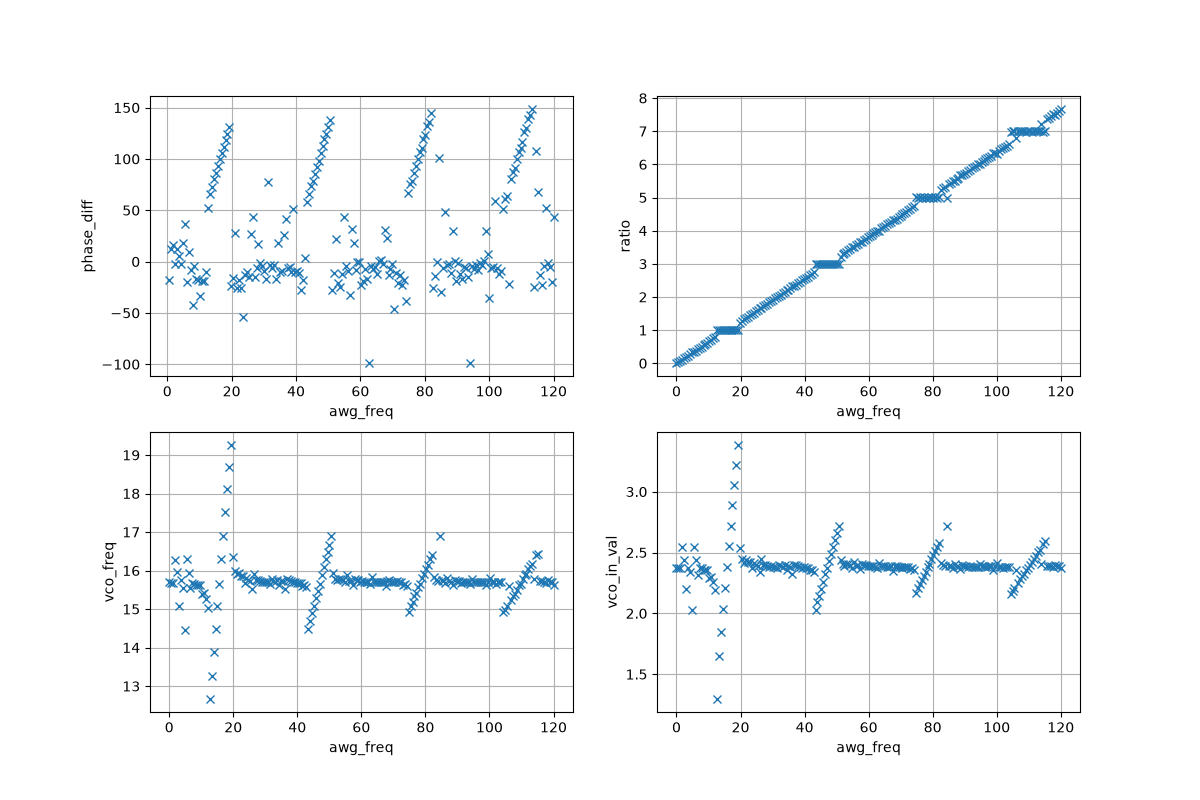
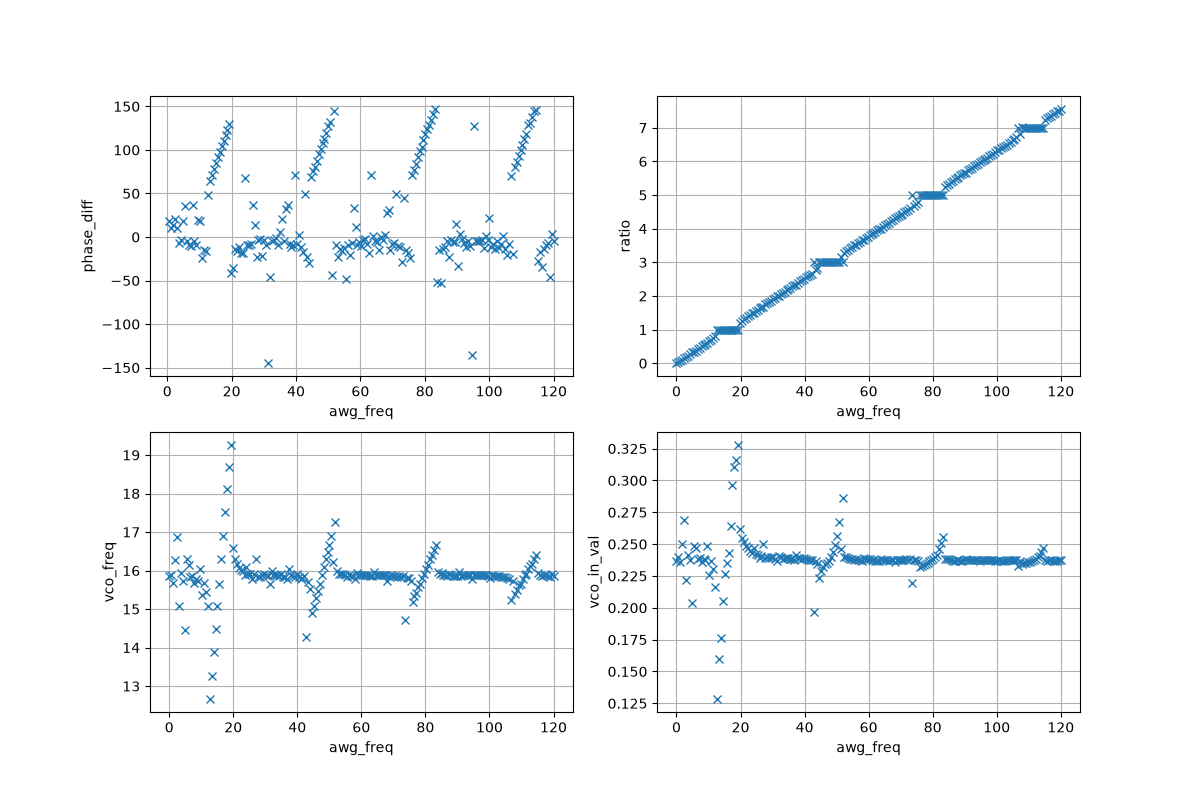
more data

diff --git a/Python/closedLoop_noise.py b/Python/closedLoop_noise.py
@@ -14,7 +14,7 @@ PC = 1
 R3 = 15_000
 C2 = 0.01e-6
 fc = f"{(1 / (np.pi * 2 * R3 * C2)):.3g}"
-noise=500
+noise=0
 
 steps = 200
 top_limit = 120_000
